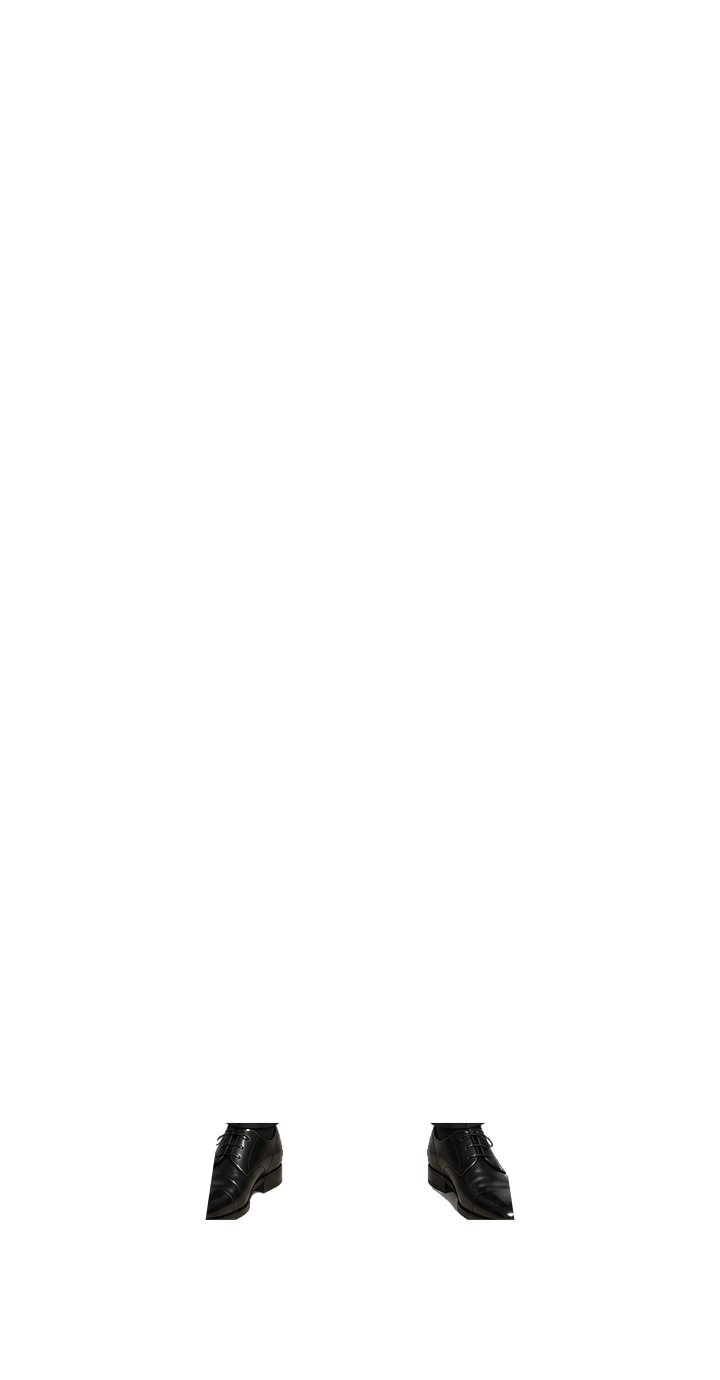
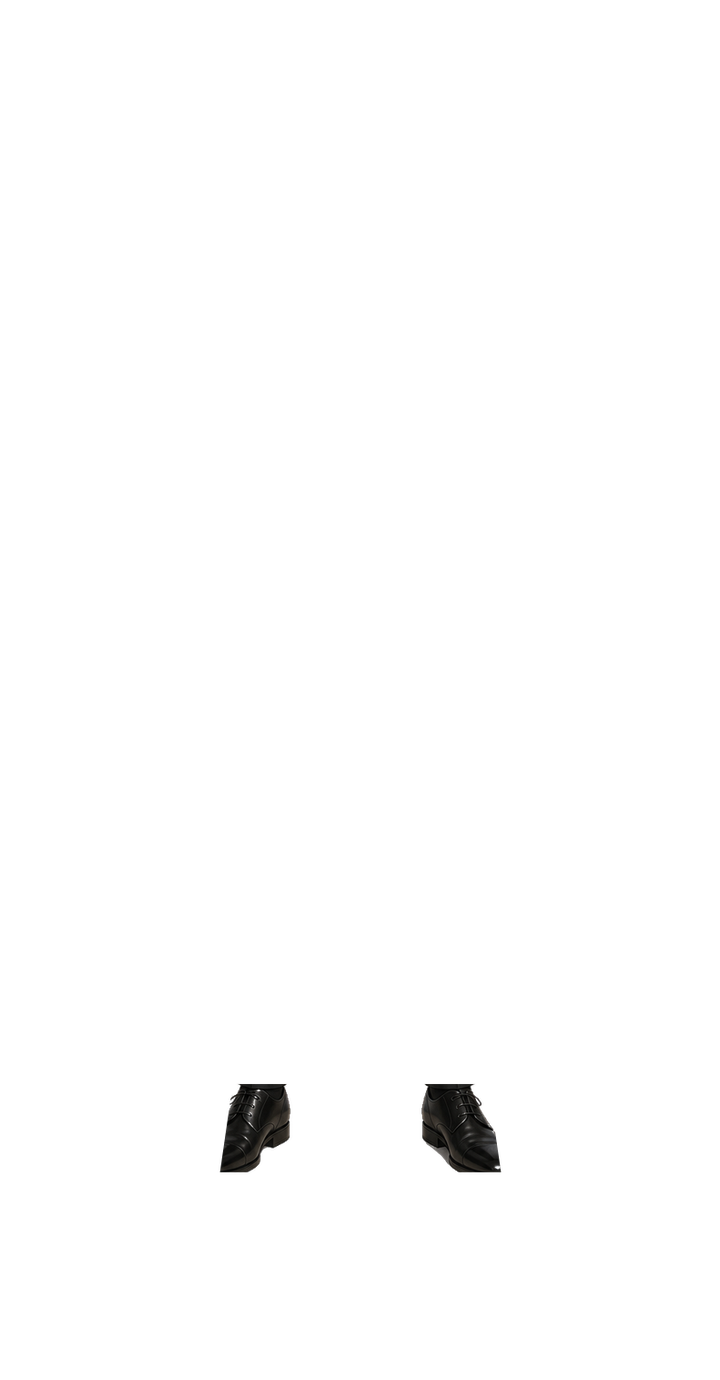
Fix Kiss Cam clipping, bride arm duplicate, and center spacing.
Inset character layers with safe padding, re-extract complete groom hands,
remove bodice/veil/skirt arm ghosts and forearm fabric scraps, and widen
couple x offsets so idle/hold/kiss leave more empty space at center.

Changed region(s): [[0.5806, 0.779, 0.7333, 0.9036], [0.275, 0.779, 0.3972, 0.9036]]

diff --git a/src/components/kiss-cam/kiss-cam-puppet.tsx b/src/components/kiss-cam/kiss-cam-puppet.tsx
@@ -50,9 +50,31 @@ function LayerImg({ src, className, style }: LayerImgProps) {
       src={src}
       alt=""
       draggable={false}
-      className={cn("pointer-events-none absolute inset-0 h-full w-full select-none object-fill", className)}
+      className={cn(
+        "pointer-events-none absolute inset-0 h-full w-full select-none object-fill",
+        className,
+      )}
       style={style}
     />
+  );
+}
+
+/** Dev-only: confirm bride arm DOM has one upper→forearm→hand chain per side. */
+function BrideLayerTreeDebug({ enabled }: { enabled: boolean }) {
+  if (!enabled) return null;
+  return (
+    <pre
+      className="pointer-events-none absolute left-1 top-1 z-[70] max-w-[min(100%,220px)] rounded bg-black/70 px-2 py-1 font-mono text-[9px] leading-tight text-emerald-200"
+      data-bride-layer-tree="1"
+    >
+      {`Bride
+ ├── leftUpperArm
+ │    └── leftForearm
+ │         └── leftHand (baked in forearm)
+ └── rightUpperArm
+      └── rightForearm
+           └── rightHand (baked in forearm)`}
+    </pre>
   );
 }
 
@@ -112,9 +134,14 @@ function ArmChain({
   const armClass = which === "left" ? "kiss-cam-arm-left" : "kiss-cam-arm-right";
   const handClass = which === "left" ? "kiss-cam-hand-left" : "kiss-cam-hand-right";
 
+  const upperLabel = which === "left" ? "leftUpperArm" : "rightUpperArm";
+  const foreLabel = which === "left" ? "leftForearm" : "rightForearm";
+  const handLabel = which === "left" ? "leftHand" : "rightHand";
+
   return (
     <div
-      className={cn("absolute inset-0", armClass)}
+      className={cn("absolute inset-0 overflow-visible", armClass)}
+      data-kiss-layer={upperLabel}
       style={{
         transformOrigin: originPct(shoulder),
         transform: `rotate(${angles.upper}deg)`,
@@ -122,7 +149,8 @@ function ArmChain({
     >
       <LayerImg src={`${base}/${which}-upper-arm.png`} />
       <div
-        className="absolute inset-0"
+        className="absolute inset-0 overflow-visible"
+        data-kiss-layer={foreLabel}
         style={{
           transformOrigin: originPct(elbow),
           transform: `rotate(${angles.forearm}deg)`,
@@ -130,7 +158,9 @@ function ArmChain({
       >
         <LayerImg src={`${base}/${which}-forearm.png`} />
         <div
-          className={cn("absolute inset-0", handClass)}
+          className={cn("absolute inset-0 overflow-visible", handClass)}
+          data-kiss-layer={handLabel}
+          data-hand-mode={handMode}
           style={{
             transformOrigin: originPct(wrist),
             transform: `rotate(${angles.hand}deg)`,
@@ -237,10 +267,13 @@ export function GroomFigure({ phase, className, rigDebug = false }: PuppetProps)
       }}
       aria-hidden
     >
-      <div className="relative h-[min(62vh,580px)] w-auto" style={{ aspectRatio: `${STAGE_W} / ${STAGE_H}` }}>
-        <div className="absolute inset-0 drop-shadow-[0_14px_28px_rgba(60,50,40,.22)]">
+      <div
+        className="relative h-[min(62vh,580px)] w-auto overflow-visible"
+        style={{ aspectRatio: `${STAGE_W} / ${STAGE_H}` }}
+      >
+        <div className="absolute inset-0 overflow-visible drop-shadow-[0_14px_28px_rgba(60,50,40,.22)]">
           {/* Legs planted — do not take body lean */}
-          <div className="kiss-cam-legs absolute inset-0">
+          <div className="kiss-cam-legs absolute inset-0 overflow-visible">
             <LayerImg src={`${base}/shoes.png`} />
             <LayerImg src={`${base}/legs.png`} />
           </div>
@@ -304,11 +337,15 @@ export function BrideFigure({ phase, className, rigDebug = false }: PuppetProps)
       }}
       aria-hidden
     >
-      <div className="relative h-[min(64vh,600px)] w-auto" style={{ aspectRatio: `${STAGE_W} / ${STAGE_H}` }}>
-        <div className="absolute inset-0 drop-shadow-[0_14px_28px_rgba(60,50,40,.18)]">
+      <div
+        className="relative h-[min(64vh,600px)] w-auto overflow-visible"
+        style={{ aspectRatio: `${STAGE_W} / ${STAGE_H}` }}
+      >
+        <div className="absolute inset-0 overflow-visible drop-shadow-[0_14px_28px_rgba(60,50,40,.18)]">
+          <BrideLayerTreeDebug enabled={rigDebug} />
           {/* Veil behind, subtle secondary motion from head */}
           <div
-            className="kiss-cam-veil absolute inset-0"
+            className="kiss-cam-veil absolute inset-0 overflow-visible"
             style={{
               transformOrigin: originPct(veilPivot),
               transform: `rotate(${resolved.veilRot}deg)`,

diff --git a/src/components/kiss-cam/kiss-cam-rig.ts b/src/components/kiss-cam/kiss-cam-rig.ts
@@ -45,48 +45,49 @@ export type CharacterRigJoints = {
  * Measured from photo-v3 A-pose layer PNGs on the 720×1380 canvas.
  * Re-measure after regenerating artwork — do not reuse SVG coords.
  */
+/** Joints after 4.5% canvas inset (safe transparent padding around artwork). */
 export const GROOM_RIG: CharacterRigJoints = {
-  headPivot: { x: 360, y: 238 },
-  leftShoulder: { x: 205, y: 269 },
-  leftElbow: { x: 125, y: 433 },
-  leftWrist: { x: 61, y: 612 },
-  rightShoulder: { x: 514, y: 268 },
-  rightElbow: { x: 595, y: 432 },
-  rightWrist: { x: 660, y: 612 },
-  bodyPivot: { x: 359, y: 367 },
-  hipPivot: { x: 362, y: 626 },
+  headPivot: { x: 360, y: 279 },
+  leftShoulder: { x: 219, y: 307 },
+  leftElbow: { x: 146, y: 456 },
+  leftWrist: { x: 88, y: 619 },
+  rightShoulder: { x: 500, y: 306 },
+  rightElbow: { x: 574, y: 455 },
+  rightWrist: { x: 633, y: 619 },
+  bodyPivot: { x: 359, y: 396 },
+  hipPivot: { x: 362, y: 632 },
   handRest: {
-    left: { x: 58, y: 627 },
-    right: { x: 662, y: 627 },
+    left: { x: 85, y: 633 },
+    right: { x: 635, y: 633 },
   },
-  faceCenter: { x: 360, y: 144 },
+  faceCenter: { x: 360, y: 193 },
   /** Inner (right) hand — toward bride / stage center */
-  innerHandHold: { x: 700, y: 600 },
+  innerHandHold: { x: 669, y: 608 },
 };
 
 export const BRIDE_RIG: CharacterRigJoints = {
-  headPivot: { x: 363, y: 201 },
-  veilPivot: { x: 364, y: 66 },
-  leftShoulder: { x: 235, y: 261 },
-  leftElbow: { x: 181, y: 376 },
-  leftWrist: { x: 126, y: 537 },
-  rightShoulder: { x: 482, y: 223 },
-  rightElbow: { x: 543, y: 376 },
-  rightWrist: { x: 600, y: 529 },
-  bodyPivot: { x: 361, y: 287 },
-  hipPivot: { x: 359, y: 520 },
+  headPivot: { x: 363, y: 245 },
+  veilPivot: { x: 364, y: 122 },
+  leftShoulder: { x: 246, y: 300 },
+  leftElbow: { x: 197, y: 404 },
+  leftWrist: { x: 147, y: 551 },
+  rightShoulder: { x: 471, y: 265 },
+  rightElbow: { x: 527, y: 404 },
+  rightWrist: { x: 578, y: 543 },
+  bodyPivot: { x: 361, y: 323 },
+  hipPivot: { x: 359, y: 535 },
   handRest: {
-    left: { x: 133, y: 579 },
-    right: { x: 593, y: 576 },
+    left: { x: 153, y: 589 },
+    right: { x: 572, y: 586 },
   },
-  faceCenter: { x: 363, y: 126 },
+  faceCenter: { x: 363, y: 177 },
   /** Inner (left) hand — toward groom / stage center */
-  innerHandHold: { x: 40, y: 600 },
+  innerHandHold: { x: 69, y: 608 },
 };
 
 /** Feet Y on canvas — used to align characters on the stage floor */
-export const GROOM_FOOT_Y = 1219;
-export const BRIDE_FOOT_Y = 1025;
+export const GROOM_FOOT_Y = 1171;
+export const BRIDE_FOOT_Y = 995;
 
 export function pct(value: number, axis: "x" | "y"): number {
   return axis === "x" ? (value / STAGE_W) * 100 : (value / STAGE_H) * 100;

diff --git a/src/components/kiss-cam/kiss-cam-pose.ts b/src/components/kiss-cam/kiss-cam-pose.ts
@@ -32,8 +32,8 @@ export type CharacterPose = {
 };
 
 /**
- * Couple composition for A-pose masters — closer base spacing.
- * Idle ~±12%. Hold ~±4.5%. Kiss ~±1.5%.
+ * Couple composition for A-pose masters — wider center gap.
+ * Idle ~±18%. Hold ~±7%. Kiss ~±2.5%. Celebration ~±8%.
  * Body lean kept small; heads do most of the kiss motion.
  */
 export function poseForPhase(
@@ -43,7 +43,7 @@ export function poseForPhase(
   const dir = side === "groom" ? -1 : 1;
 
   const base: CharacterPose = {
-    x: dir * 12,
+    x: dir * 18,
     y: 0,
     bodyRot: 0,
     headRot: 0,
@@ -59,11 +59,11 @@ export function poseForPhase(
 
   switch (phase) {
     case "idle":
-      return { ...base, x: dir * 12, balloonSway: 1 };
+      return { ...base, x: dir * 18, balloonSway: 1 };
     case "approach":
       return {
         ...base,
-        x: dir * 8,
+        x: dir * 12,
         bodyRot: dir * -0.8,
         headRot: dir * -2.5,
         holdProgress: 0.35,
@@ -72,7 +72,7 @@ export function poseForPhase(
     case "holdHands":
       return {
         ...base,
-        x: dir * 4.5,
+        x: dir * 7,
         bodyRot: dir * -1.2,
         headRot: dir * -3.5,
         holdProgress: 1,
@@ -82,7 +82,7 @@ export function poseForPhase(
     case "romanticPause":
       return {
         ...base,
-        x: dir * 4,
+        x: dir * 6.5,
         bodyRot: dir * -1.5,
         headRot: dir * -4,
         holdProgress: 1,
@@ -93,7 +93,7 @@ export function poseForPhase(
     case "moveCloser":
       return {
         ...base,
-        x: dir * 2.8,
+        x: dir * 4.5,
         y: -0.3,
         bodyRot: dir * -2,
         headRot: dir * -5.5,
@@ -107,7 +107,7 @@ export function poseForPhase(
     case "countdown":
       return {
         ...base,
-        x: dir * 2.1,
+        x: dir * 3.5,
         y: -0.6,
         bodyRot: dir * -2.5,
         headRot: dir * -7,
@@ -121,7 +121,7 @@ export function poseForPhase(
     case "kiss":
       return {
         ...base,
-        x: dir * 1.5,
+        x: dir * 2.5,
         y: -0.9,
         bodyRot: dir * -3,
         headRot: dir * -6,
@@ -137,7 +137,7 @@ export function poseForPhase(
     case "final":
       return {
         ...base,
-        x: dir * 3.5,
+        x: dir * 8,
         y: -0.3,
         bodyRot: dir * -1.5,
         headRot: dir * -2.5,

diff --git a/src/app/globals.css b/src/app/globals.css
@@ -477,7 +477,11 @@ h3,
 .kiss-cam-body,
 .kiss-cam-hand-left,
 .kiss-cam-hand-right,
-.kiss-cam-veil {
+.kiss-cam-veil,
+.kiss-cam-figure,
+.kiss-cam-legs,
+.kiss-cam-dress {
+  overflow: visible;
   transition: transform 0.85s cubic-bezier(0.4, 0, 0.2, 1);
   will-change: transform;
 }
